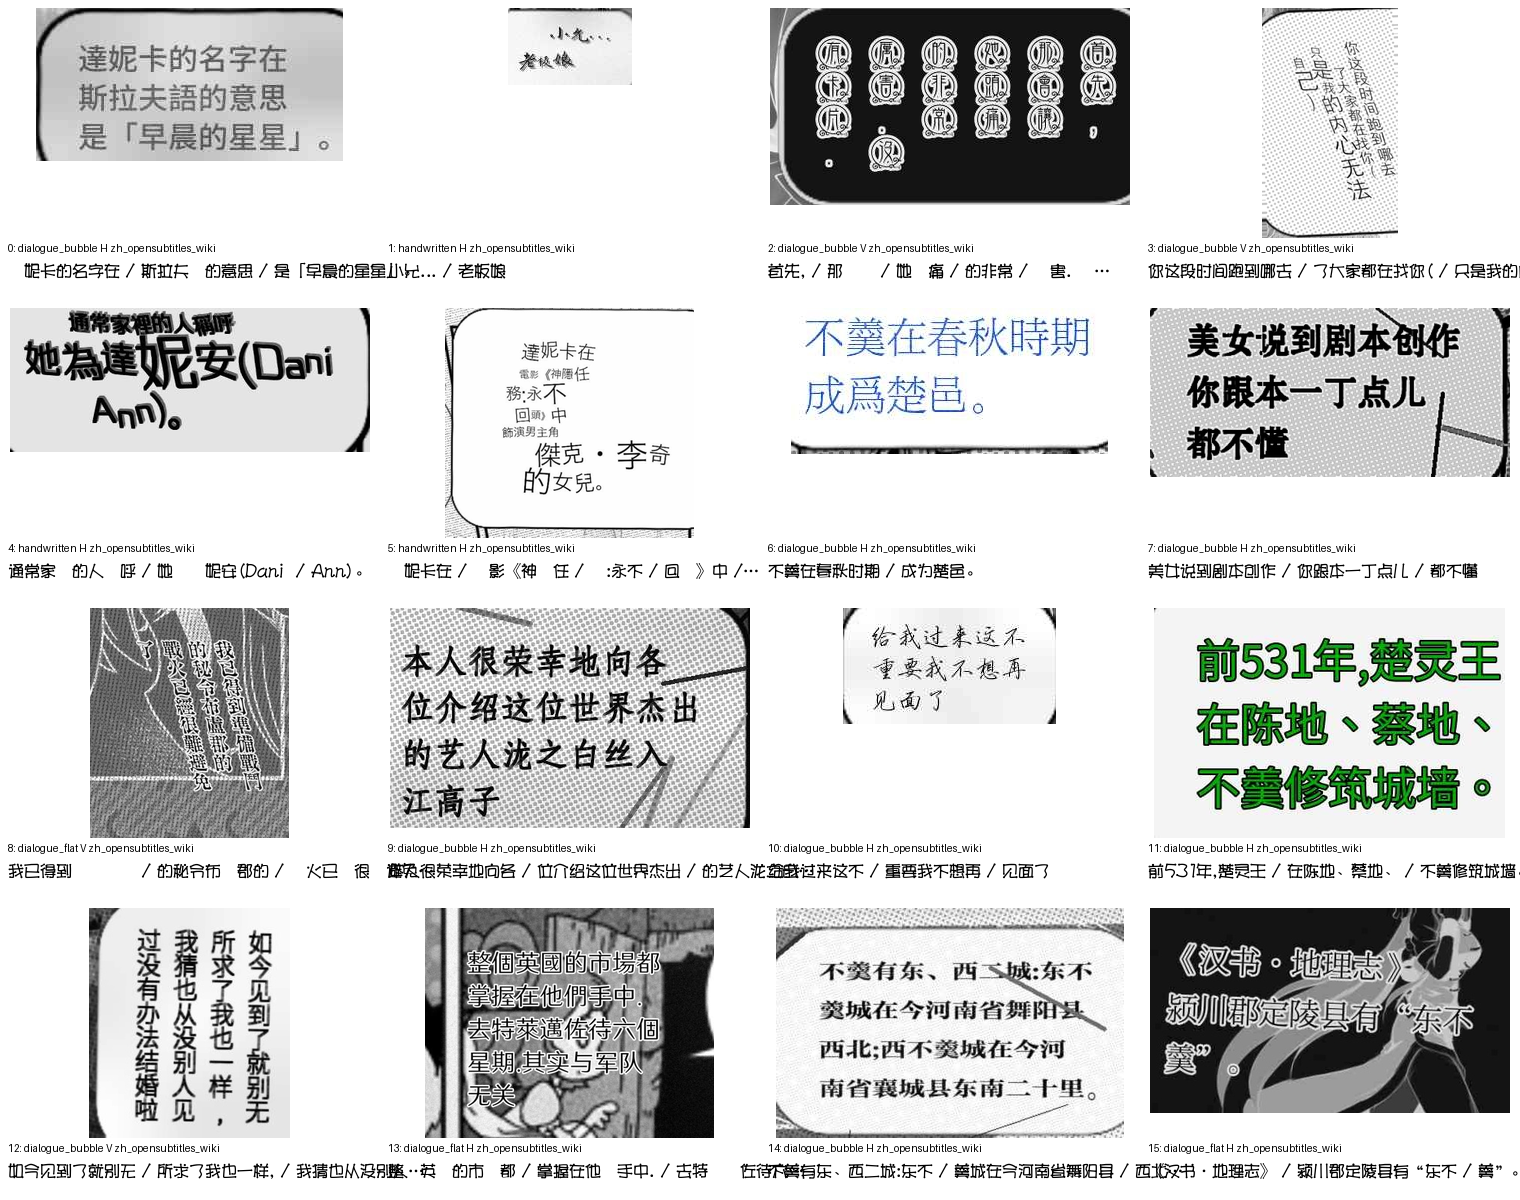
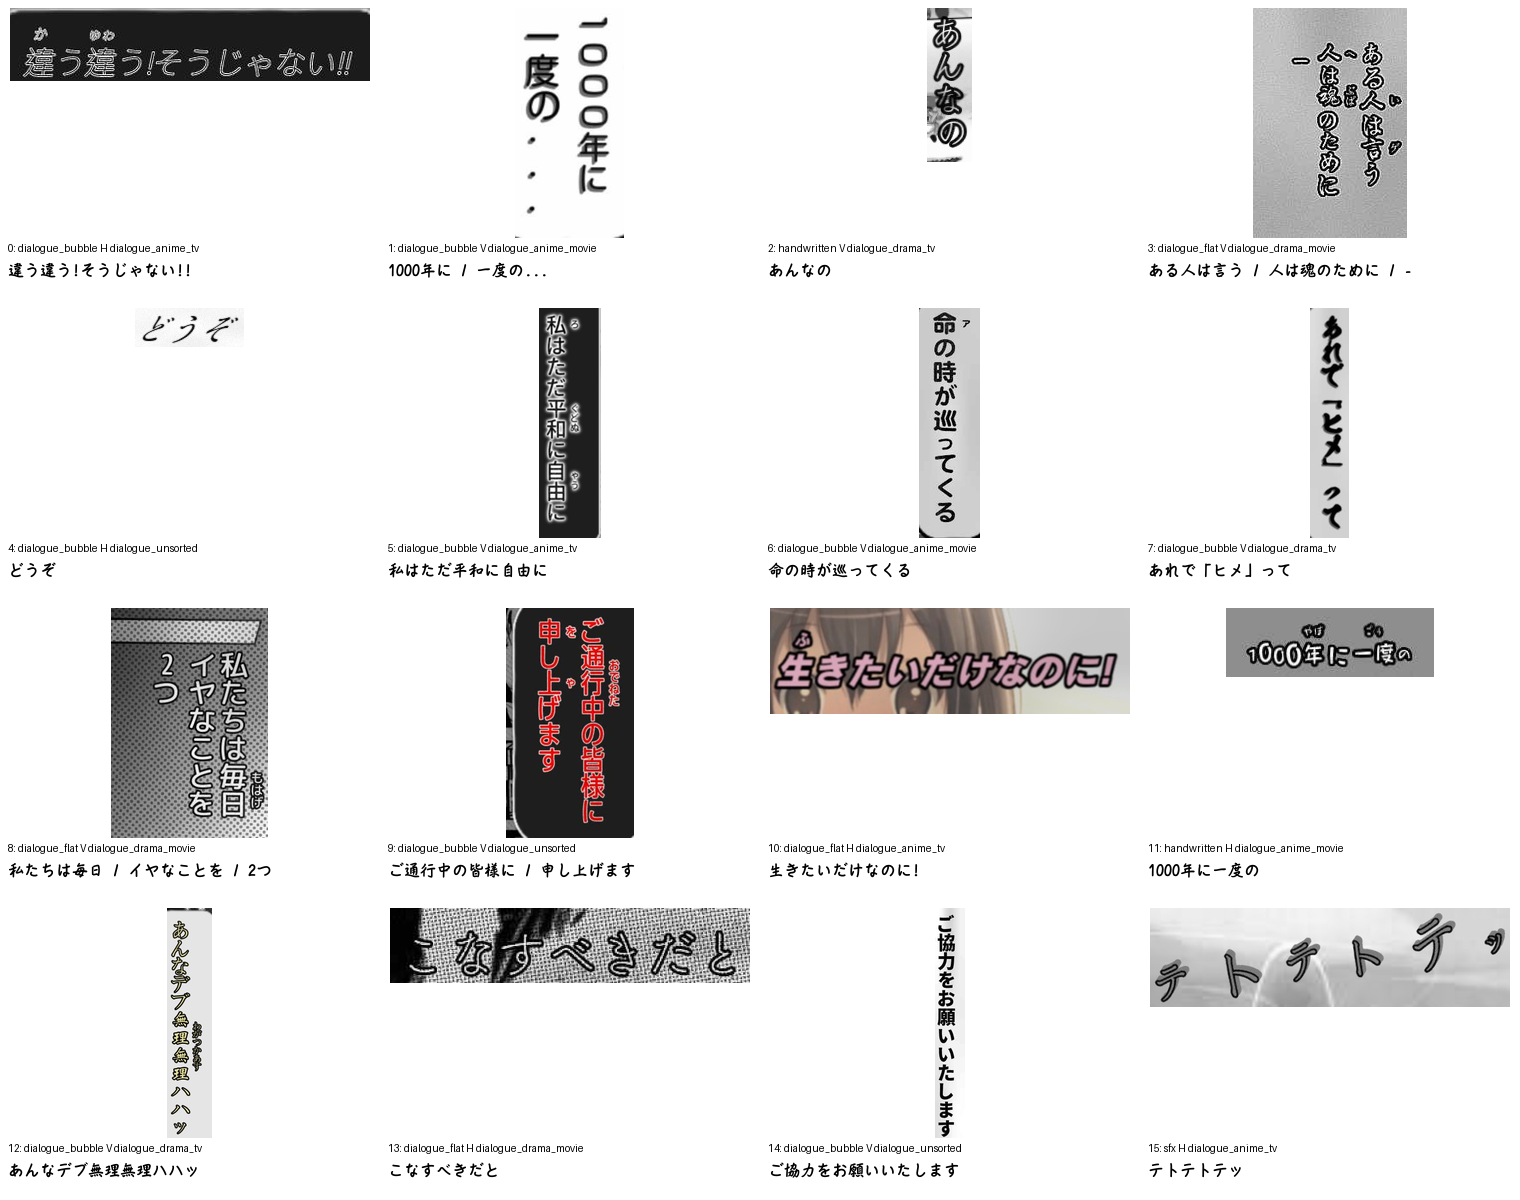
fix: empty hf:dialogue splits fallback and boost ja SFX mix

diff --git a/modal/modal_app.py b/modal/modal_app.py
@@ -42,7 +42,7 @@ LANG_FONT_FOLDERS = {
     "zh": ["Chinese_Additions", "精简包/简体", "精简包/繁体", "精简包/简繁"],
     "ko": ["Korean"],
     "en": ["Latin_Comic"],
-    "ja": ["精简包/日文", "Chinese_Additions"],
+    "ja": ["More_JP", "精简包/日文", "Chinese_Additions"],
 }
 
 
@@ -386,7 +386,7 @@ def run_notebook_pipeline(
     stroke_size: int = -1,
     slant_deg: float = -999.0,
     hard_ink: str = "auto",
-    preset_mix: str = "dialogue_bubble=0.65,dialogue_flat=0.15,handwritten=0.12,sfx=0.08",
+    preset_mix: str = "auto",
     override_json: str = "",
     preview_n: int = 8,
     skip_preview: bool = False,
@@ -556,8 +556,14 @@ def run_notebook_pipeline(
         common += ["--stroke-size", str(stroke_size)]
     if slant_deg > -900:
         common += ["--slant-deg", str(slant_deg)]
-    if preset_mix and crop_preset == "mixed":
-        common += ["--preset-mix", preset_mix]
+    resolved_preset_mix = preset_mix
+    if not resolved_preset_mix or resolved_preset_mix == "auto":
+        if language == "ja":
+            resolved_preset_mix = "dialogue_bubble=0.58,dialogue_flat=0.14,handwritten=0.13,sfx=0.15"
+        else:
+            resolved_preset_mix = "dialogue_bubble=0.65,dialogue_flat=0.15,handwritten=0.12,sfx=0.08"
+    if resolved_preset_mix and crop_preset == "mixed":
+        common += ["--preset-mix", resolved_preset_mix]
     if override_json:
         common += ["--override-json", override_json]
     if text_column:
@@ -703,7 +709,7 @@ def main(
     override_scope: str = "split",
     min_line_len: int = 0,
     vertical: str = "auto",
-    preset_mix: str = "dialogue_bubble=0.65,dialogue_flat=0.15,handwritten=0.12,sfx=0.08",
+    preset_mix: str = "auto",
     push_to_hub: bool = True,
     update_card: bool = True,
     skip_preview: bool = False,

diff --git a/tools/append_hayai_synth.py b/tools/append_hayai_synth.py
@@ -301,24 +301,24 @@ def _iter_text_items(cfg: dict) -> Iterator[dict]:
     if lines.startswith("hf:"):
         spec = lines[3:]
         if spec.startswith("dialogue"):
-            from manga_ocr_dev.data.process_text import iter_dialogue_stream
+            from manga_ocr_dev.data.process_text import DEFAULT_DIALOGUE_SPLITS, iter_dialogue_stream
 
             splits = spec.split(":", 1)[1] if ":" in spec else cfg.get("hf_splits") or ""
             yield from iter_dialogue_stream(
                 dataset_name=cfg.get("hf_dataset") or DEFAULT_DIALOGUE_DATASET,
-                splits=splits,
+                splits=splits or DEFAULT_DIALOGUE_SPLITS,
                 streaming=True,
                 min_len=min_len,
                 max_len=max_len,
             )
             return
         if spec.startswith("novel"):
-            from manga_ocr_dev.data.process_text import iter_novel_stream
+            from manga_ocr_dev.data.process_text import DEFAULT_NOVEL_CONFIGS, iter_novel_stream
 
             configs = spec.split(":", 1)[1] if ":" in spec else cfg.get("hf_configs") or ""
             yield from iter_novel_stream(
                 dataset_name=cfg.get("hf_dataset") or DEFAULT_NOVEL_DATASET,
-                configs=configs,
+                configs=configs or DEFAULT_NOVEL_CONFIGS,
                 streaming=True,
                 min_len=min_len,
                 max_len=max_len,

diff --git a/manga_ocr_dev/data/process_text.py b/manga_ocr_dev/data/process_text.py
@@ -612,7 +612,7 @@ def iter_dialogue_stream(
     if isinstance(splits, str):
         splits = [s.strip() for s in splits.split(",") if s.strip()]
     if not splits:
-        raise ValueError("No dialogue splits configured")
+        splits = DEFAULT_DIALOGUE_SPLITS
 
     iterators = []
     for split in splits:
@@ -656,6 +656,8 @@ def iter_novel_stream(
     """
     if isinstance(configs, str):
         configs = [c.strip() for c in configs.split(",") if c.strip()]
+    if not configs:
+        configs = DEFAULT_NOVEL_CONFIGS
 
     if data_files:
         resolved = _resolve_data_file_args(data_files)
